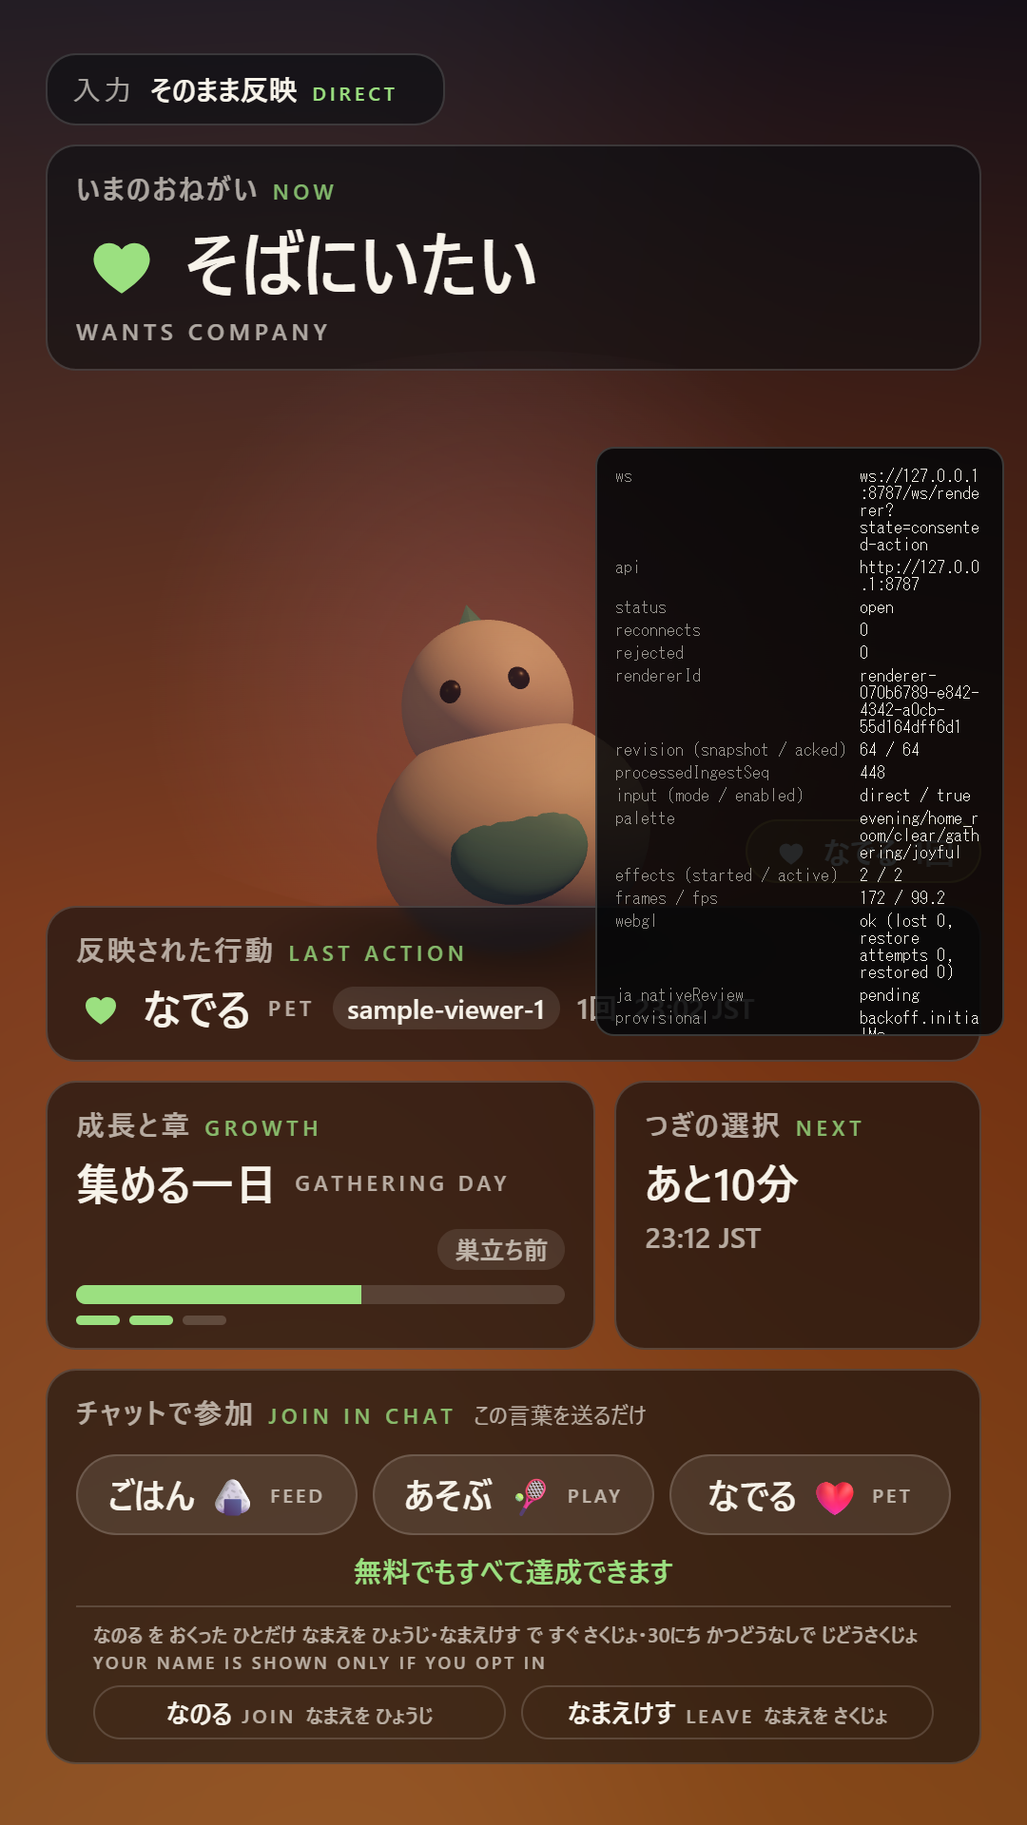
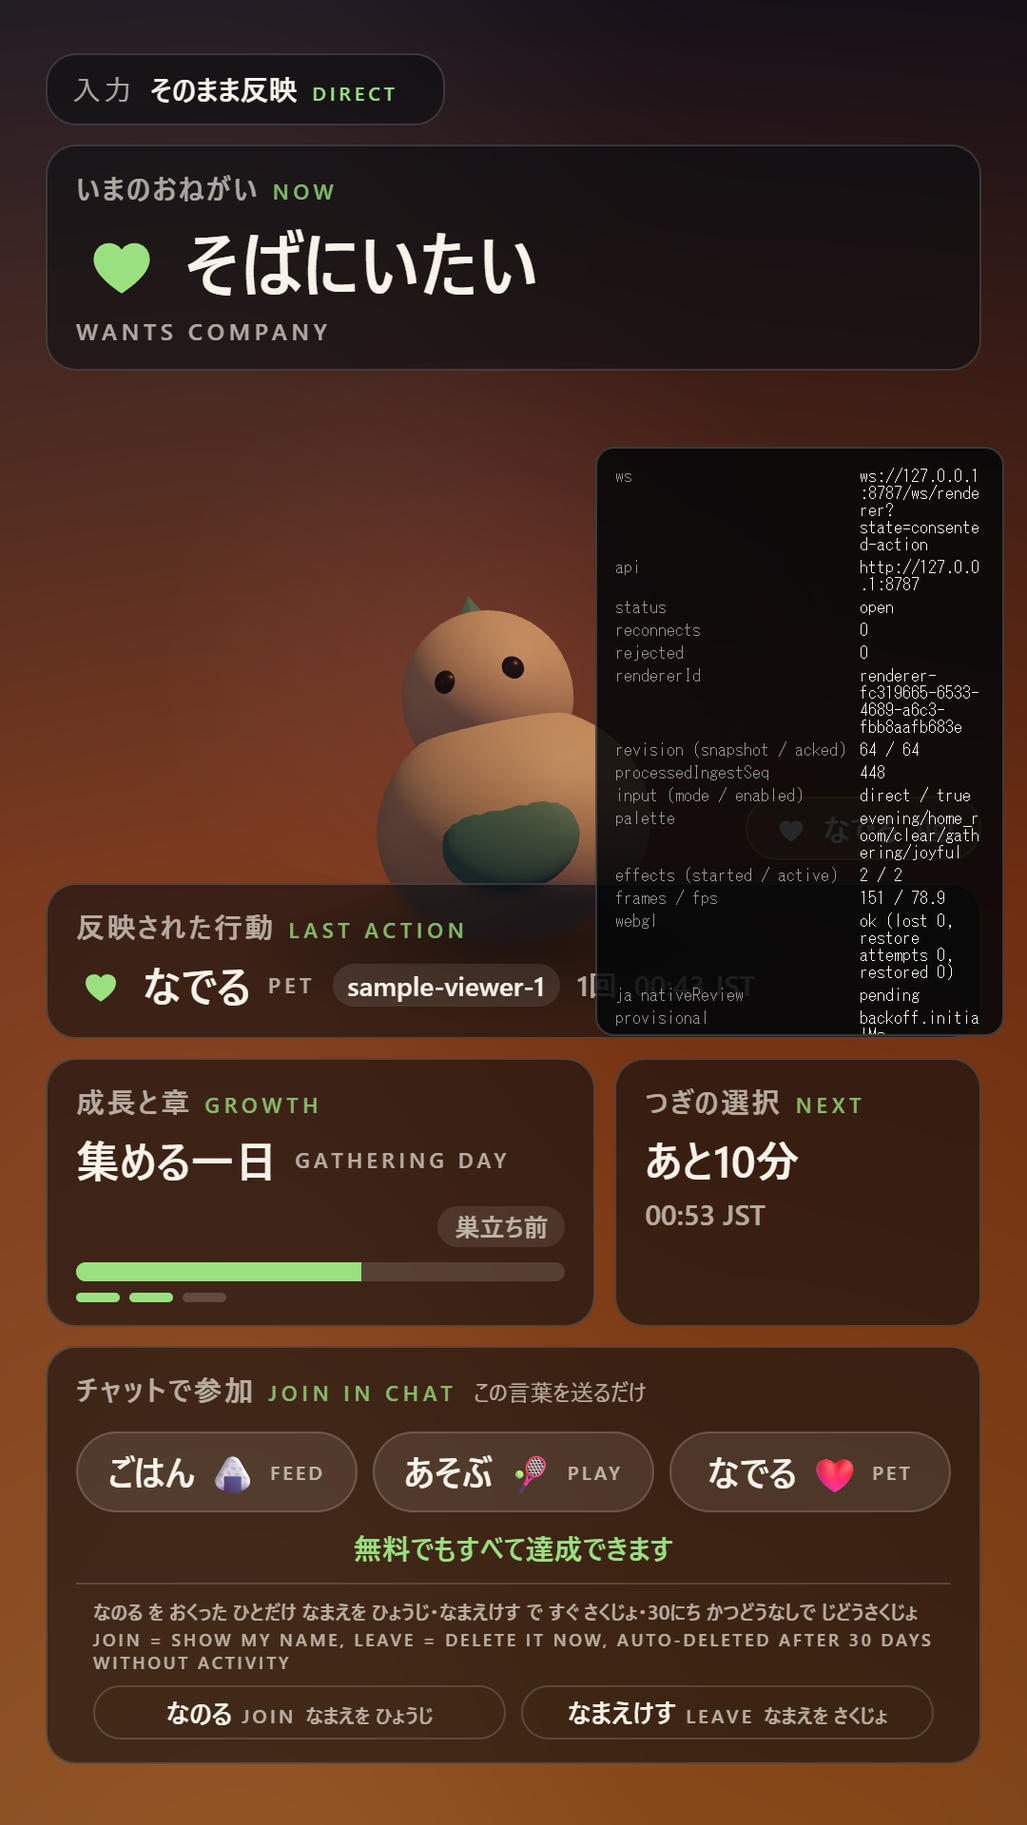
docs(tasks): record T20c review round 1, the fixes and the round-2 gates
Adds the `## Review round 1` section: the three findings, the judgement
on each (all three valid, none disputed), the fixing SHAs, and why the
name join moved from a time comparison to the commit revision — with
the first-snapshot, reconnect and coalesced-revision paths worked
through, the one server-side assumption that is left, and the mapping
from each required regression scenario to its test.

Also corrects what the reviewer flagged in the old `## Result`: the
acceptance row and the follow-up that called the join fail-closed were
not true of round 1's rule, and now describe the rule that is in the
code. The dev screenshot is re-shot because the English notice line
changed; the same image shows the name still on the slot, which is the
revision join working in the real renderer.

diff --git a/docs/tasks/TASK-T20c-identity-renderer.md b/docs/tasks/TASK-T20c-identity-renderer.md
@@ -32,6 +32,9 @@
      `display.lastAppliedAction`과 같고 `startsAt <= appliedAt`일 때만 그 effect의 `actor`를 쓴다.
      하나라도 어긋나면 이름 없음(fail-closed) — 이름을 **틀린 행동에 붙이는 것**은 §2.6이
      금지하는 가짜 참여 주장이 되므로 모호하면 익명이 정답이다.
+     **→ 이 규칙은 리뷰 round 1에서 리비전(커밋) 조인으로 대체됐다.** 시간 기반 규칙은
+     "snapshot이 effect보다 먼저 오는" 정상 구간에서 틀린 이름을 만들 수 있었다.
+     아래 `## Review round 1` 참고.
    - 이름은 effect가 살아 있는 동안(`endsAt`까지)만 화면에 있다. 렌더러는 표시명을 따로
      기억하지 않는다 — D-9의 "철회 시 즉시 삭제"가 렌더러 쪽 잔상으로 무력화되지 않게.
 2. **`Hud.tsx`**: `HudBottom`이 `actorName: string | null` prop을 받아 `slot-last-action`에
@@ -93,10 +96,10 @@
 | 1 | **유료 연출 컴포넌트가 `actor`를 읽지 않음(정적 검사)** | met | `apps/renderer/src/components/paid-staging.test.ts` — 금칙 패턴에 `\bactor\b` 추가(`PaidThanks.tsx`, 그리고 신규 "draws the free reaction chips without a name either"로 `EffectLayer.tsx`도). 더 넓게 `apps/renderer/src/read-model/identity-confinement.test.ts`가 **워크스페이스 전체**에서 `actor` 필드를 읽는 파일이 `read-model/identity.ts`뿐임을 고정하고, `src/components/**`(비테스트) 전체에 `actor`·`displayName`이 0건임을 따로 검사한다. 컴포넌트 목록이 아니라 필드 이름을 검사하므로 새 컴포넌트가 생겨도 자동으로 걸린다 |
 | 2 | **ja.json 키 전부 `nativeReview: pending`** | met | `apps/renderer/src/i18n/japanese-source.test.ts` "is marked as awaiting native review, entry by entry"(기존 테스트, 신규 3키 포함해 통과). 신규 키: `ui.identity.notice`·`ui.identity.join`·`ui.identity.leave` |
 | 2 | **하드코딩 일본어 0건** | met | 같은 파일 "contains no hard-coded Japanese outside ja.json". 명령 문자열(`なのる`/`なまえけす`)은 계약의 `CONSENT_COMMAND_ALIASES`에서만 오고, 고지 문장은 ja.json이 `{join}`/`{leave}`/`{days}`로 보간한다 |
-| 범위 1 | '방금 반영된 행동' 슬롯에 `actor.kind==='consented'`일 때만 표시명 | met | `read-model/identity.ts`(`selectActionActorName`) + `Hud.tsx`(`slot-actor`). `identity.test.ts`의 `selectActionActorName` 12개 케이스가 성공·거부 경로를 함께 고정(다른 사람 행동에 이름 붙이기, 동률, 명령·횟수 불일치, 스냅샷보다 새로운 effect, 문자열 비교 함정). `actor=null`이면 DOM이 이전과 동일(`Screen.test.tsx` "draws the four fixed slots from snapshot.display" 무변경 통과) |
-| 범위 1 | 길이 제한·이모지/제어문자·양방향 제어문자 정리, React 텍스트 노드로만 렌더 | met | `sanitizeDisplayName`(`identity.ts`) + `identity.test.ts`의 `sanitizeDisplayName` 10개 케이스(양방향 4종·제어/서식 4종·공백 접기·빈 결과·grapheme 말줄임·계약 상한 초과 거부·markup 미해석). 텍스트 노드는 `Screen.test.tsx`가 `firstChild.nodeType === Node.TEXT_NODE`로 확인하고, `identity-confinement.test.ts`가 렌더러 전체에 `dangerouslySetInnerHTML`/`innerHTML =`/`insertAdjacentHTML`/`document.write`가 0건임을 고정 |
+| 범위 1 | '방금 반영된 행동' 슬롯에 `actor.kind==='consented'`일 때만 표시명 | met (round 2에서 규칙 교체) | `read-model/identity.ts`(`trackActionRevision` + `selectActionActorName`) + `Hud.tsx`(`slot-actor`). 조인 키는 두 메시지가 나온 **커밋(`stateRevision`)**이며, 그 리비전의 후보가 정확히 1개일 때만 이름이 붙는다. `identity.test.ts`의 `selectActionActorName` 14개 + `trackActionRevision` 4개 케이스, `store.test.ts`의 `ReadModel action revision` 5개가 성공·거부 경로를 함께 고정한다(snapshot 선행, effect 선행, 재전송, A→B 연속, 한 커밋 2건, 리비전 건너뜀, 명령·횟수 불일치). `actor=null`이면 DOM이 이전과 동일(`Screen.test.tsx` "draws the four fixed slots from snapshot.display" 무변경 통과). **round 1의 시간 기반 규칙은 틀린 이름을 만들 수 있었다 — `## Review round 1` 참고** |
+| 범위 1 | 길이 제한·이모지/제어문자·양방향 제어문자 정리, React 텍스트 노드로만 렌더 | met | `sanitizeDisplayName`(`identity.ts`) + `identity.test.ts`의 `sanitizeDisplayName` 11개 케이스(round 2에서 code point 상한·astral 경계 1건 추가)(양방향 4종·제어/서식 4종·공백 접기·빈 결과·grapheme 말줄임·계약 상한 초과 거부·markup 미해석). 텍스트 노드는 `Screen.test.tsx`가 `firstChild.nodeType === Node.TEXT_NODE`로 확인하고, `identity-confinement.test.ts`가 렌더러 전체에 `dangerouslySetInnerHTML`/`innerHTML =`/`insertAdjacentHTML`/`document.write`가 0건임을 고정 |
 | 범위 2 | 유료 감사 연출·다른 effect에 이름 없음, 지출·참여 순위표 없음 | met | 위 정적 검사 2개 + `Screen.test.tsx` "keeps the name off the paid staging and off the reaction chip". 순위표는 애초에 없고 `paid-staging.test.ts`의 `a ranking` 패턴이 계속 0건 |
-| 범위 3 | CTA 고지 한 줄(ja 주 표기 + en 별칭) + JOIN/LEAVE 안내, T14 CTA 비활성 시 함께 숨김 | met | `Cta.tsx`의 `cta-identity` 블록(활성 분기 안에만 존재). `Screen.test.tsx` "states how a name gets on screen and how it comes off, next to the CTA"(문구가 ja.json + 계약 별칭 + `CONSENT_RETENTION_DAYS`의 보간 결과와 정확히 일치)와 "withdraws the consent notice together with the CTA"(`interactionEnabled:false`에서 `cta-identity`·`cta-identity-notice`·`cta-consent-command-JOIN` 전부 없음) |
+| 범위 3 | CTA 고지 한 줄(ja 주 표기 + en 별칭) + JOIN/LEAVE 안내, T14 CTA 비활성 시 함께 숨김 | met (round 2에서 영어 보강) | `Cta.tsx`의 `cta-identity` 블록(활성 분기 안에만 존재). `Screen.test.tsx` "states how a name gets on screen and how it comes off, next to the CTA"(일본어·영어 **양쪽** 문구가 ja.json + 계약 별칭 + `CONSENT_RETENTION_DAYS`의 보간 결과와 정확히 일치하고, 영어 줄이 LEAVE 삭제와 30일을 실제로 말하는지 DOM 텍스트로 확인)와 "withdraws the consent notice together with the CTA"(`interactionEnabled:false`에서 `cta-identity`·`cta-identity-notice`·`cta-consent-command-JOIN` 전부 없음) |
 | 범위 4 | `?mode=dev` 대표 상태 1종 추가 + 스크린샷 | met | `testing/preview-states.ts`의 `consented-action`, `preview-states.test.ts` "shows a consented viewer only where D-9 allows one"(이름 있는 effect가 정확히 1개, 조인이 성립하는 조합, 나머지 6개 상태는 전부 익명). 스크린샷 `docs/tasks/assets/TASK-T20c-dev-consented-action-1080x1920.png`(아래) |
 
 ### Gates (executed)
@@ -134,10 +137,114 @@ node apps/renderer/scripts/capture.mjs --only consented-action --prefix TASK-T20
 `なのる`/`なまえけす` 안내가 붙는다. 오른쪽 검은 패널은 `?mode=dev` 진단 패널이며 `?mode=broadcast`에는
 없다(T14 follow-up: 패널이 슬롯 위를 덮는 문제는 이 PR 범위 밖이며 그대로다).
 
+## Review round 1
+
+리뷰(`gh pr view 29 --json reviews`, 2026-08-19, verdict **request_changes**) — blocker 1 + major 1 +
+minor 1. **셋 다 타당하다**고 판단해 전부 고쳤고, 반박한 항목은 없다. 이 라운드에서도
+`packages/contract`는 건드리지 않았다(계약 변경이 필요한지는 blocker 항목에서 따로 따진다).
+
+| # | 지적 | 판단 | 무엇을 고쳤나 | 고침 SHA |
+|---|---|---|---|---|
+| blocker | `read-model/identity.ts:185` — 조인에 인과/리비전 키가 없다. '현재 수신된 가장 새 반응'을 명령·횟수와 `startsAt <= appliedAt`으로만 고르는데, 서버는 snapshot을 effect보다 **먼저** 발행하므로(`apps/server/src/engine/engine.ts:1182`·`:1192`) 시청자 A의 아직 재생 중인 이름 붙은 FEED/1 반응이 시청자 B의 새 snapshot에 귀속된다(리뷰어 재현: `delayedAckSelection='viewer-A'`). 스펙 §2.6이 금지하는 가짜 귀속 | 타당 | 조인 키를 **커밋(`stateRevision`)**으로 바꿨다. 아래 상세 | `4718187` |
+| major | `i18n/ja.json:32` — 영어 고지가 `YOUR NAME IS SHOWN ONLY IF YOU OPT IN`뿐이라, LEAVE 즉시 삭제와 30일 자동 삭제가 영어에는 없다. PR #28 `docs/ops/identity-consent.md` §2.1(`JOIN = show my name · LEAVE = delete it`)과도 어긋난다 | 타당 | 영어 별칭이 일본어와 **같은 세 가지**를 말하도록 고치고, 명령 문자열과 30을 영어 쪽에서도 계약·상수에서 보간하도록 `Alias`에 params를 붙였다. 렌더된 DOM 텍스트로 단언 | `920521f` |
+| minor | `identity.ts:106` — `raw.length`는 UTF-16 code unit이고 계약 `DisplayNameSchema`는 `u` 플래그 아래 code point를 센다. 이모지 60개(120 code unit / 60 code point)는 계약이 받아들이는데 렌더러가 거부한다 | 타당 | 상한을 계약과 같은 단위(code point)로 재고, 그 뒤 20 grapheme 말줄임. astral 경계 테스트 추가 | `80fa2a2` |
+
+### blocker 1 — 조인 키를 '시간'에서 '커밋'으로
+
+**왜 시간으로는 안 되는가.** 4초짜리 반응 연출 창 안에서 두 시청자가 같은 명령을 보내면, 두
+행동을 구분하는 정보가 `commandName`·`contributionCount`·`startsAt`에는 없다. 도착 순서도
+소용이 없다 — 서버는 커밋의 snapshot을 그 커밋의 effect보다 먼저 내보내므로, "새 snapshot이
+왔는데 그 effect는 아직"인 구간이 정상 동작에 항상 존재한다. 그 구간에서 옛 이름이 새 행동에
+붙었다.
+
+**무엇으로 대신하는가.** `Effect.stateRevision`은 "그 effect를 만든 커밋의 리비전"이고
+(`packages/contract/src/effect.ts:79`), 서버는 `ACTION_REACTION` 초안을 push하는 것과
+`lastAppliedAction`을 쓰는 것을 **한 reduction 안에서** 한다
+(`apps/server/src/world/reducer.ts:629`·`:641`). `engine/effects.ts:49`와 `engine/snapshot.ts:38`이
+둘 다 같은 `context.revision`을 찍는다. 그러므로 화면에 있는 행동의 반응은 **그 행동이 나타난
+리비전을 정확히 들고 있다.**
+
+snapshot 하나만으로는 그 리비전을 알 수 없다 — 이후 snapshot들은 바뀌지 않은
+`lastAppliedAction`을 자기 리비전으로 계속 반복한다. 그래서 `ReadModel`이 스냅샷 **열**을 보고
+"`lastAppliedAction`이 마지막으로 바뀐 리비전"을 들고 있고(`trackActionRevision`), 조인은
+
+- `effect.kind === 'ACTION_REACTION'`
+- `effect.stateRevision === actionRevision`
+- `commandName`·`contributionCount` 일치
+- 그런 후보가 **정확히 1개**
+
+일 때만 이름을 붙인다. 0개 또는 2개 이상이면 익명이다(한 커밋이 구분 불가능한 행동 2건을
+적용했다면 어느 쪽 이름을 골라도 추측이다).
+
+**세 가지 경계 상황을 따져 보면(디스패치 요구):**
+
+| 상황 | actionRevision | 결과 | 왜 안전한가 |
+|---|---|---|---|
+| 첫 snapshot(로드·재연결, 이전 상태 없음) | 그 snapshot의 리비전 | 같은 커밋의 반응만 이름이 붙는다 | 그 리비전을 든 `ACTION_REACTION`은 **그 커밋이 만든 것**이고, 그 커밋이 곧 지금 보이는 `lastAppliedAction`을 쓴 커밋이다. 재전송돼 아직 재생 중인 옛 반응은 **더 낮은** 리비전을 들고 있어 후보가 되지 못한다. snapshot의 행동이 실제로 snapshot보다 오래된 것이면 후보가 0개 → 익명 |
+| 재연결 | 위와 동일(첫 snapshot이다) | 대개 익명 | 서버가 보내는 현재 snapshot의 리비전은 보통 행동이 적용된 리비전보다 크므로, 재전송된 반응(옛 리비전)과 맞지 않는다 |
+| coalesce·stale drop으로 리비전을 건너뜀(§10.2) | **본** 리비전(실제보다 나중) | 익명 | 실제 반응은 건너뛴 리비전을 들고 있어 후보가 0개가 된다 |
+
+즉 세 경우 모두 **틀린 이름이 아니라 이름 없음**으로 떨어진다. 반대 방향(이름이 안 나오는
+손해)은 감수한다 — 화면은 익명 상태에서 이미 정확하지만, "누가 했는지 틀린" 상태에서는 정확하지
+않기 때문이다(§2.6).
+
+**남는 가정 1개(계약이 아니라 서버 구현에 기대는 부분).** "한 커밋이 `ACTION_REACTION`을
+staging했다면 그 커밋이 `lastAppliedAction`도 그 명령·횟수로 썼다"는 것. 지금 서버는
+`ACTION_REACTION`을 만드는 자리가 `reducer.ts:629` 한 곳뿐이고 12줄 뒤에서
+`lastAppliedAction`을 쓰므로 성립한다(`rg "ACTION_REACTION" apps/server/src`로 확인). 계약에
+`display.lastAppliedAction.stateRevision`(또는 `eventKey`)이 생기면 이 추론 자체가 없어지므로
+follow-up으로 남긴다 — 다만 그것은 `[contract]` 변경이라 이 task에서 하지 않는다.
+**지금 방식으로도 리뷰어의 재현 시나리오는 사라지고, 어떤 경계에서도 틀린 이름이 나오지 않는다**고
+판단해 `ask` 없이 구현했다.
+
+**회귀 테스트(디스패치가 요구한 6가지 전부).**
+
+| 시나리오 | 테스트 |
+|---|---|
+| snapshot이 effect보다 먼저(리뷰어 재현) | `identity.test.ts` "does not lend a viewer name to the next action whose snapshot arrives first" · `Screen.test.tsx` "does not lend a name to the next action whose snapshot arrives first (BOARD D-9)" (DOM 수준) |
+| ACK 지연 | 같은 `Screen.test.tsx` 케이스 — `frame()`을 한 번도 돌리지 않아 state·effect ACK가 나가지 않은 상태에서 검증한다 |
+| 재전송(repeat) | `identity.test.ts` "survives a retransmitted reaction, which is one effect twice" + 위 `Screen.test.tsx` 케이스 마지막 단계 |
+| 두 effect 연속(A→B) | `identity.test.ts` "follows two named actions in a row, one commit at a time" · `Screen.test.tsx` "names the next consented viewer once their own commit is on screen" |
+| 같은 리비전에 같은 명령 2건 | `identity.test.ts` "refuses to choose between two reactions from the same commit" |
+| effect가 snapshot보다 먼저 | `identity.test.ts` "shows no name for a reaction that arrives before the snapshot it belongs to" |
+| 리비전 건너뜀(coalesce) | `identity.test.ts` "shows no name when a revision was skipped, rather than guessing at it" |
+| 키 자체의 동작 | `identity.test.ts` `describe('trackActionRevision')` 4건 · `store.test.ts` `describe('ReadModel action revision')` 5건(첫 snapshot, 불변, 이동, 비움, stale drop) |
+
+### 이전 `## Result`의 부정확한 서술 정정
+
+리뷰어가 "`## Result`가 조인을 fail-closed/met으로 선언했지만 snapshot-before-effect
+반례에서는 틀린 이름이 나온다"고 지적했다. **맞다.** 아래 acceptance 표의 '범위 1' 행과
+follow-up 한 줄은 round 1 기준으로는 사실이 아니었고, 이 라운드에서 코드가 그 서술에 맞게
+고쳐졌다. 표와 follow-up도 새 규칙으로 갱신했다.
+
+### Gates (round 2, executed)
+
+```text
+git fetch origin && git rebase origin/main   -> Successfully rebased (origin/main e9e93d9)
+npm run format:check -> All matched files use Prettier code style!
+npm run lint         -> eslint 0 problems; check-no-legacy-imports: ok (0 legacy imports);
+                        check-install-scripts: ok (4 reviewed, better-sqlite3 binding loads)
+npm run typecheck    -> tsc --build tsconfig.json, 오류 0
+npm run test         -> Test Files 141 passed (141), Tests 2006 passed | 1 skipped (2007)
+npm run build        -> @vl/contract, @vl/renderer, @vl/server, @vl/simulator, @vl/soak 성공
+
+node apps/renderer/scripts/capture.mjs --only consented-action --prefix TASK-T20c --measure-ms 3000
+  dev/consented-action: stage 1080x1920, canvas 1080x1920, slots 4
+  frame budget: 43 frames in 3.0s = 14.3 fps at 1080x1920 (headless, software WebGL)
+```
+
+스크린샷은 다시 찍었다. 고지 영어 줄이 바뀌었기 때문이고, 같은 이미지에서 `sample-viewer-1`
+pill이 여전히 슬롯에 붙어 있는 것이 리비전 조인이 실제 렌더러에서도 성립한다는 증거다.
+FPS 수치가 round 1(92.9)보다 낮은 것은 같은 headless software WebGL 환경의 부하 차이이며 이
+PR의 변경과 무관하다(측정 자체가 이 task의 합격 기준이 아니다 — T14·T17 항목).
+
+**실행하지 않았음**: 실제 OBS Browser Source 육안 확인, GPU 브라우저 FPS, 일본어 원어민 검수
+(round 1과 동일한 이유·범위).
+
 ## Not done / out of scope
 
 - `packages/contract` 미변경(`[contract]` task 아님). 표시명·`channelRef`·동의 명령 별칭은 T20a가 이미 넣어 둔 것을 읽기만 했다.
-- 서버 쪽(T20b, PR #28)은 건드리지 않았다. 이 PR은 계약만 보고 구현했고, `docs/ops/identity-consent.md` §2.1의 고지 초안과 **같은 취지**의 문구를 쓰되 T20c 명세가 요구한 3가지(동의자 한정·즉시 삭제·30일 미활동 자동 삭제)를 한 줄에 모두 담았다. 초안 §2.1은 앞의 2개만 담고 있으므로 문구가 문자 그대로 같지는 않다.
+- 서버 쪽(T20b, PR #28)은 건드리지 않았다. 이 PR은 계약만 보고 구현했고, `docs/ops/identity-consent.md` §2.1의 고지 초안과 **같은 취지**의 문구를 쓰되 T20c 명세가 요구한 3가지(동의자 한정·즉시 삭제·30일 미활동 자동 삭제)를 한 줄에 모두 담았다. round 2에서 영어 별칭도 같은 3가지를 말하게 고쳤다(`JOIN = SHOW MY NAME, LEAVE = DELETE IT NOW, AUTO-DELETED AFTER 30 DAYS WITHOUT ACTIVITY`). 초안 §2.1은 앞의 2개만 담고 있으므로 문구가 문자 그대로 같지는 않다.
 - 동의자 한정 cooldown·한 표(A-9)·분기 투표는 서버 쪽 결정이라 렌더러에 아무 것도 넣지 않았다. `ChoiceOptionView.commandName`은 서버가 넣어 줄 때만 표시되는 기존 동작 그대로다.
 - 유료 연출·순위표·지출 표시는 손대지 않았다. `PaidThanks.tsx`는 한 글자도 바뀌지 않았고 정적 검사만 강화했다.
 - 원어민 검수·문안 확정은 Gate 3(A-11).
@@ -145,7 +252,7 @@ node apps/renderer/scripts/capture.mjs --only consented-action --prefix TASK-T20
 ## Follow-ups
 
 - **이름이 반응 연출(4초)과 함께 사라진다.** 슬롯은 그 뒤로도 같은 행동을 익명으로 계속 보여 준다. D-9의 "철회 시 즉시 삭제"를 렌더러가 흐리지 않게 하려고 일부러 아무 것도 기억하지 않은 결과다. 이름을 더 오래 두고 싶다면 (a) 서버가 `display.lastAppliedAction`에 `actor`를 실어 주고(계약 변경, `[contract]`) (b) 철회 시 서버가 즉시 새 snapshot을 내는 쪽이 옳다 — 렌더러가 자체 캐시로 늘리는 것은 삭제 보장을 깨므로 권하지 않는다.
-- 조인이 `startsAt <= appliedAt`에 기대므로, 서버가 반응 effect의 `startsAt`을 `lastAppliedAction.appliedAt`보다 **뒤로** 잡도록 바뀌면 이름이 조용히 사라진다(틀린 이름이 뜨는 게 아니라 안 뜬다 — fail-closed). 지금은 `apps/server/src/world/reducer.ts`가 두 값을 같은 `now`로 쓴다. 계약이 두 메시지를 잇는 키를 갖게 되면 이 추론은 필요 없어진다.
+- **조인은 `stateRevision`으로 하지만, 계약에는 아직 "이 행동이 어느 커밋에서 적용됐는가"를 말하는 필드가 없다.** 렌더러는 snapshot 열을 보고 그것을 추론한다(`trackActionRevision`). 그래서 (a) 재연결·coalesce 뒤 첫 이름 한 번은 익명이 되고, (b) "한 커밋이 `ACTION_REACTION`을 만들었다면 그 커밋이 `lastAppliedAction`도 썼다"는 서버 구현상의 사실에 기댄다. `display.lastAppliedAction`에 `stateRevision`(또는 `eventKey`)을 얹는 `[contract]` 변경 하나면 추론이 사라지고 (a)도 없어진다 — 코디네이터가 분리한다면 T20d 후보다.
 - `scripts/capture.mjs`에 `--only`/`--prefix`를 더했다(대표 상태 1장만 다시 찍기 위해). 기본값은 T14와 동일해서 기존 사용법은 그대로다.
 - `.impeccable/`(로컬 도구 캐시)는 저장소에 들어가면 안 되는데 `.gitignore`에 없다. 다른 worker도 같은 실수를 할 수 있으므로 별도 정리 task로 남긴다.
 - `?mode=dev` 패널이 '반영された行動' 슬롯을 가리는 문제는 T14에서 이미 follow-up으로 적혀 있고 그대로다.
